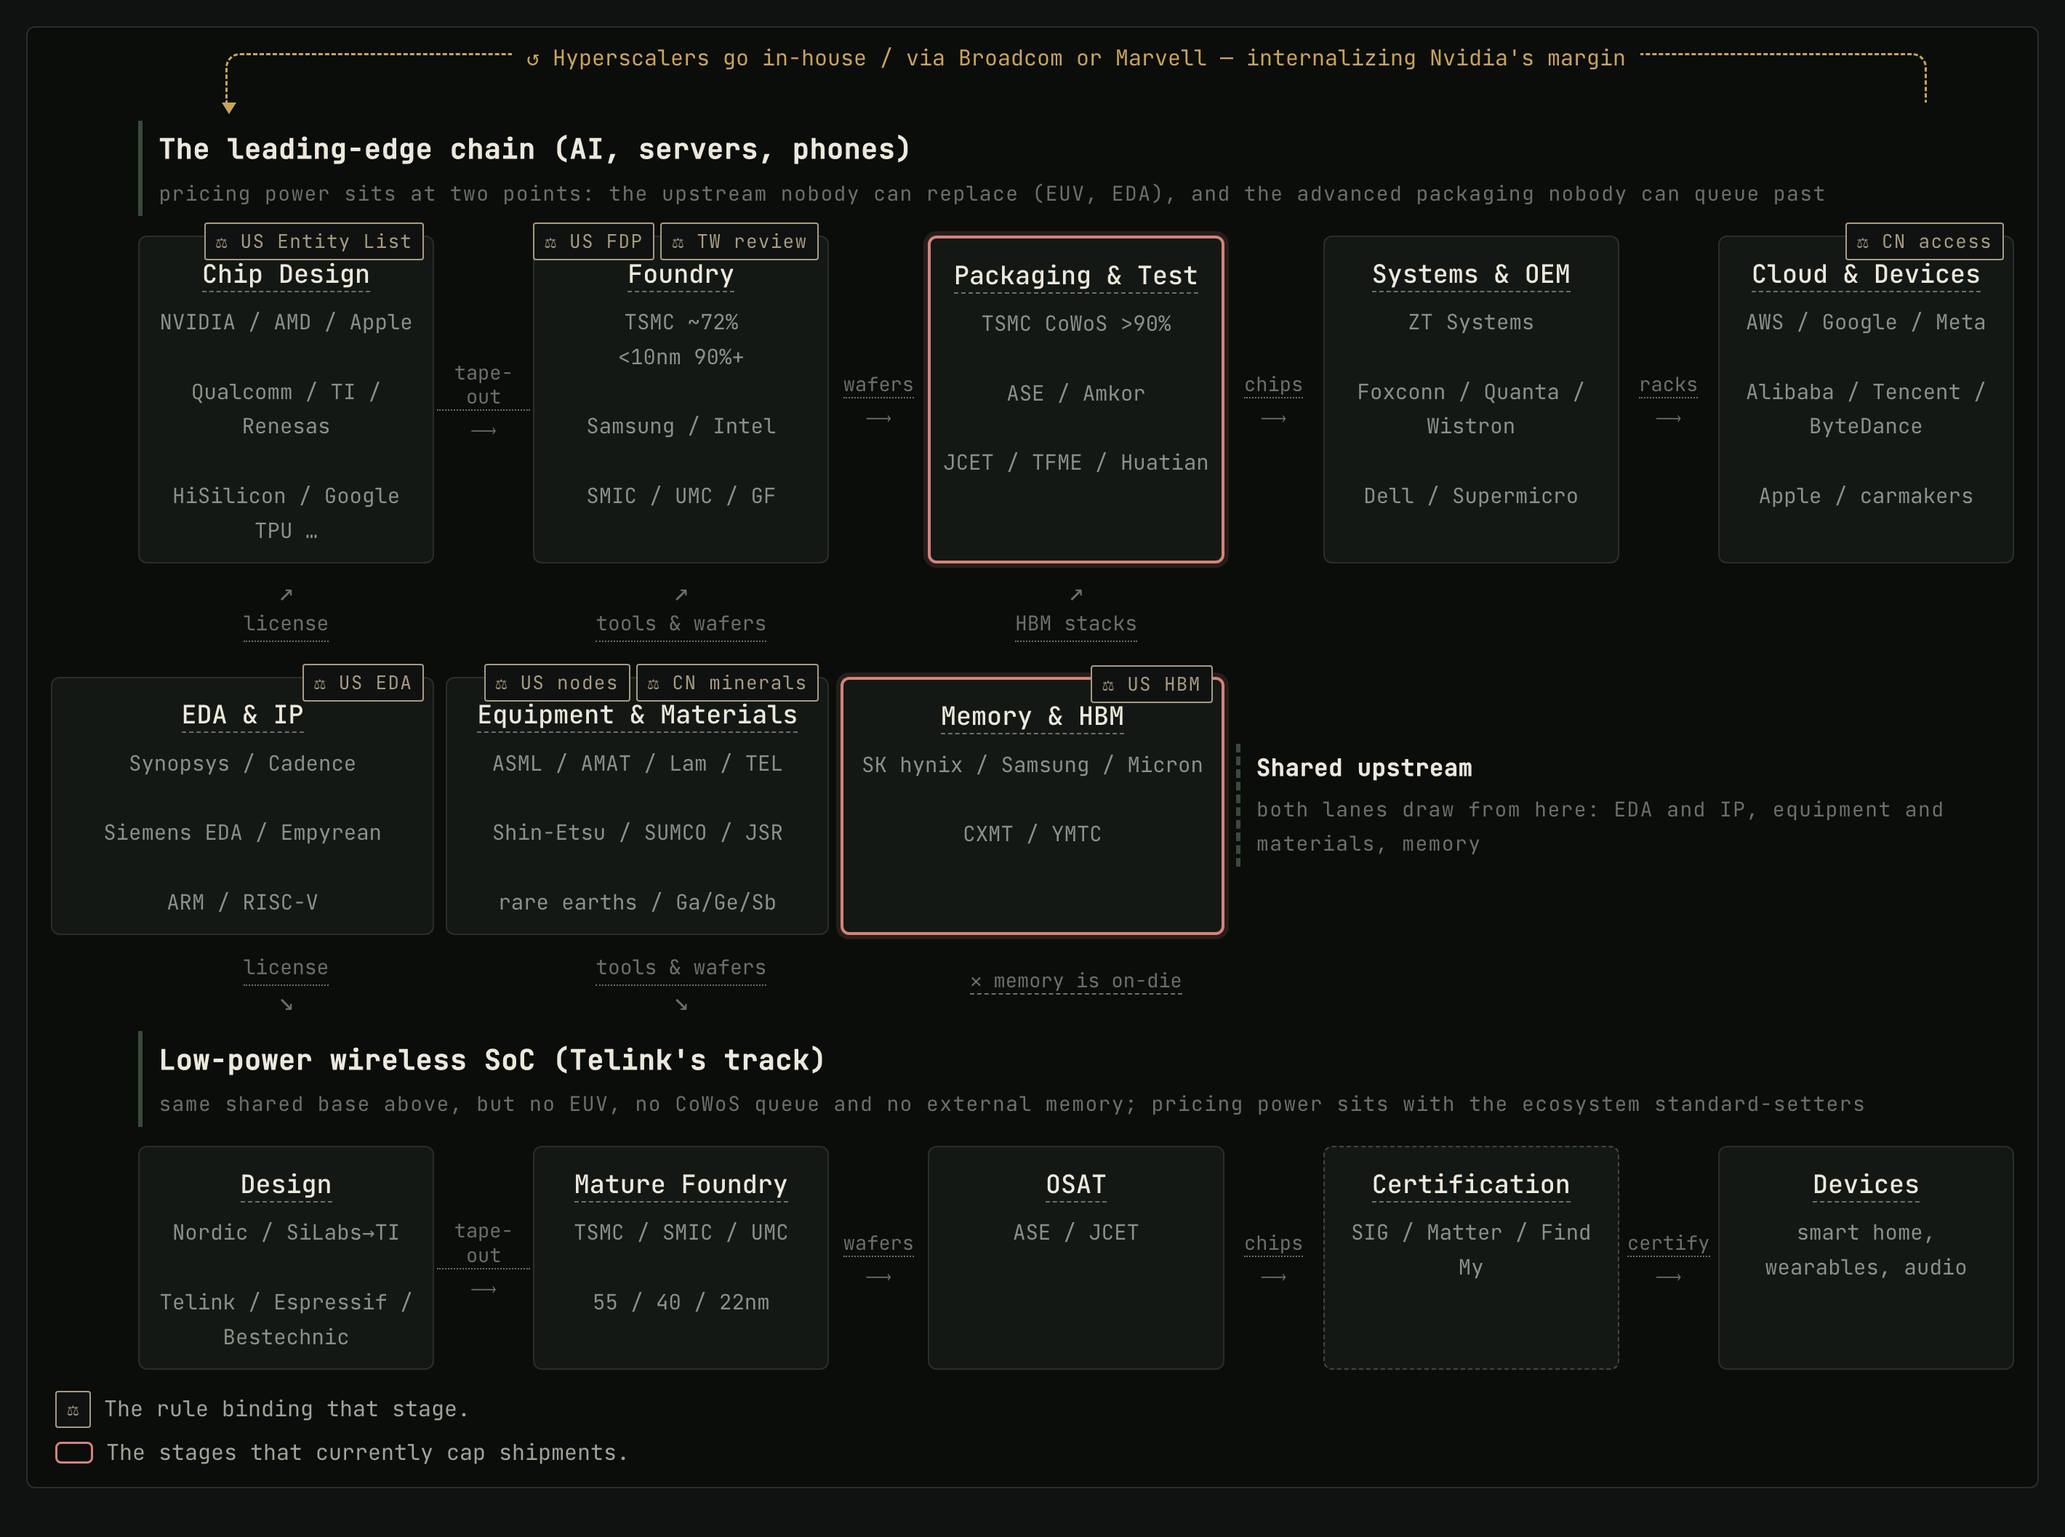
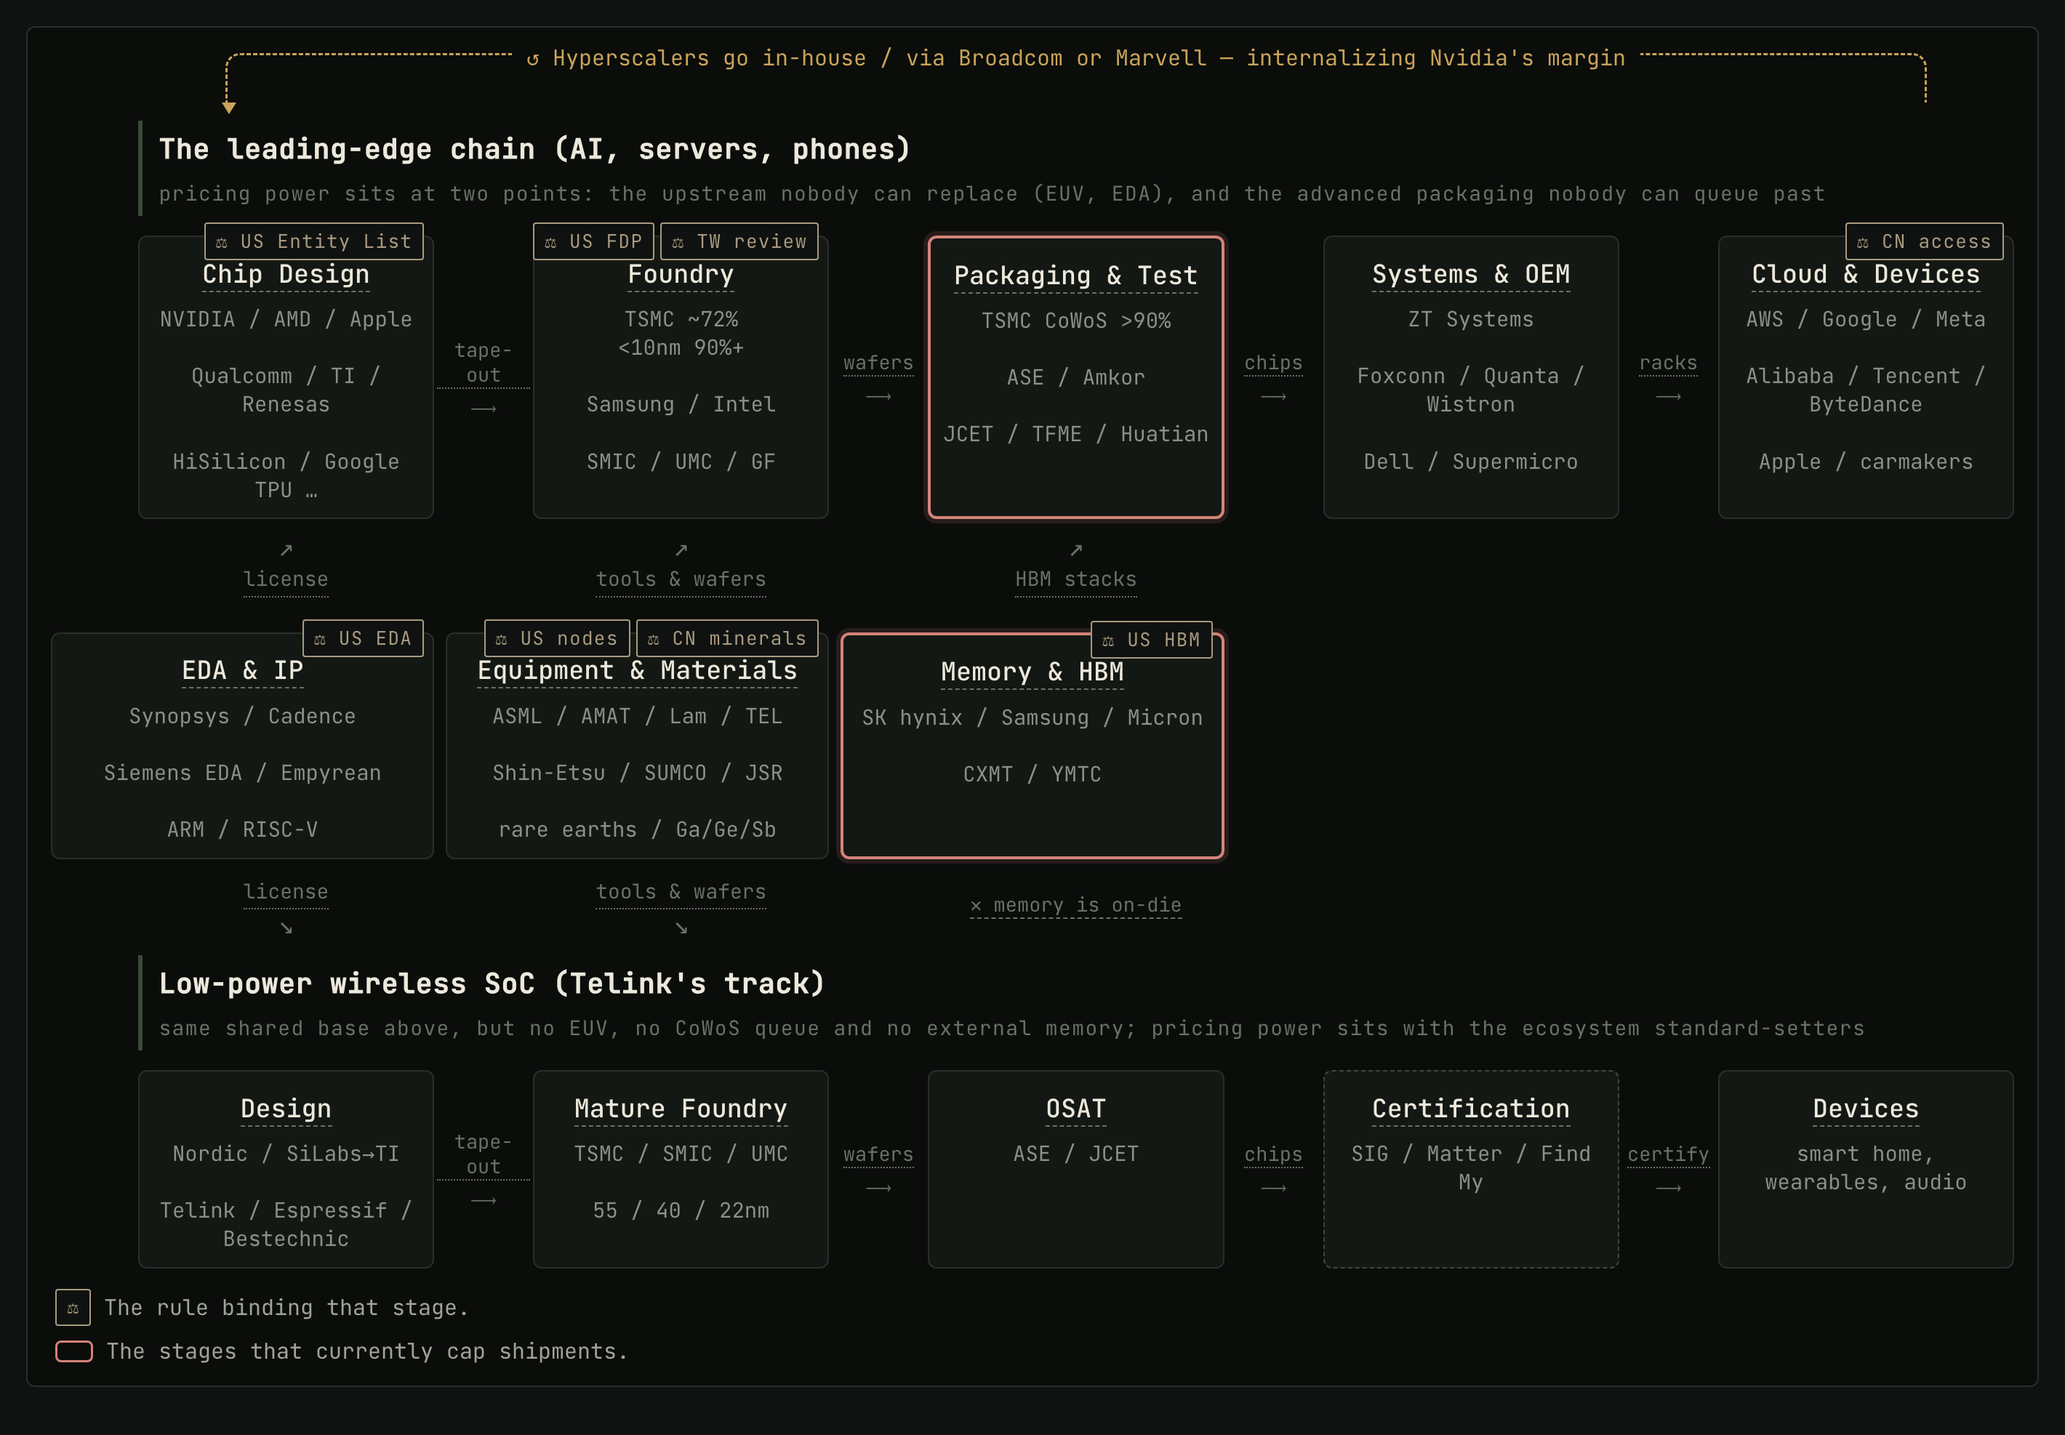
semis: let the drawing carry the shared band, and tighten the lists
The label reading "共用上游 / both lanes draw from here" is gone. Once the
band sits 60px left of the rows it feeds and the connectors on both
sides are diagonal, the picture already says it — the words only read
the picture back.

Line-height inside the tiles drops from 1.65 to 1.35. At 1.65 a list of
three short names took the room of five.

Figure is 987px tall now, down from 1176 before these two.

diff --git a/quartz/static/semis/value-chain-map.html b/quartz/static/semis/value-chain-map.html
@@ -265,7 +265,7 @@ h1.article-title{font-size:30px}
 .fbox .ft{display:block;font-size:17.5px;font-weight:500;color:var(--color-text-bright);
   margin-bottom:.4rem}
 .fbox .ft .tg-tip{border-bottom-style:dashed}
-.fbox .fp{display:block;font-size:14.5px;line-height:1.65;color:var(--color-text-muted)}
+.fbox .fp{display:block;font-size:14.5px;line-height:1.35;color:var(--color-text-muted)}
 .fbox .fsub{display:block;margin:.5rem 0 .12rem;font-size:12px;letter-spacing:.06em;color:var(--color-text-faint);border-bottom:1px dotted var(--color-border)}
 .fbox .fsub:first-child{margin-top:.1rem}
 .fbox .fsp{display:block}
@@ -373,8 +373,6 @@ h1.article-title{font-size:30px}
 /* the shared band is a layer feeding the chain, not a step in it: offset it so
    its cells deliberately fail to line up with the rows above and below */
 .fbox.mid{margin-left:-60px}
-.flane.bandlane{border-left-style:dashed;align-self:center;margin-left:-60px}
-.flane.bandlane .ln{font-size:16px}
 </style></head><body><article>
 <h1 class="article-title">半导体产业链全图 — Semiconductor Value Chain: The Full Map</h1>
 <p class="meta">2026-08-21 / silviazeng.github.io</p>
@@ -399,7 +397,7 @@ h1.article-title{font-size:30px}
 <div class="fvert up midv" style="grid-row:4;grid-column:1"><span class="ar">↗</span><span class="tg-tip " tabindex="0"><span class="tg-lang zh">授权</span><span class="tg-lang en">license</span><span class="tg-tip-box"><span class="tg-lang zh">EDA 工具按席位收费；IP 按「授权费 + 每颗版税」收。ARM 的商业模式就在这一条箭头上。</span><span class="tg-lang en">EDA tools are sold per seat; IP as licence fee plus per-chip royalty. ARM's entire business model lives on this one arrow.</span></span></span></div>
 <div class="fvert up midv" style="grid-row:4;grid-column:3"><span class="ar">↗</span><span class="tg-tip " tabindex="0"><span class="tg-lang zh">设备与硅片</span><span class="tg-lang en">tools & wafers</span><span class="tg-tip-box"><span class="tg-lang zh">光刻机、刻蚀机、硅片、光刻胶从这里进厂。断供这一条竖线，工厂两年后就造不了下一代。</span><span class="tg-lang en">Scanners, etchers, wafers and resists enter the fab here. Cut this vertical and in two years the fab cannot build the next node.</span></span></span></div>
 <div class="fvert up midv" style="grid-row:4;grid-column:5"><span class="ar">↗</span><span class="tg-tip " tabindex="0"><span class="tg-lang zh">HBM 堆栈</span><span class="tg-lang en">HBM stacks</span><span class="tg-tip-box"><span class="tg-lang zh">HBM 是在<b>封装环节</b>才和逻辑裸片合体的——这正是 CoWoS 成为整条链瓶颈的原因。</span><span class="tg-lang en">HBM only meets the logic die <b>at packaging</b> — which is exactly why CoWoS is the chain's bottleneck.</span></span></span></div>
-<div class="flane bandlane" style="grid-row:5;grid-column:7/-1"><span class="tg-lang zh"><span class="ln">共用上游</span>两条线都从这里取：EDA 与 IP、设备与材料、存储</span><span class="tg-lang en"><span class="ln">Shared upstream</span>both lanes draw from here: EDA and IP, equipment and materials, memory</span></div><div class="fbox mid" style="grid-row:5;grid-column:1"><span class="ftag"><span class="fpill tg-tip" tabindex="0">⚖ <span class="tg-lang zh">美国 EDA</span><span class="tg-lang en">US EDA</span><span class="tg-tip-box"><span class="tg-lang zh">同属一套<b>美国出口管制体系（EAR，商务部 BIS 执行）</b>——五件工具各咬一层，这件管的是「软件能不能给你用」。<br><br><b>EAR 对 EDA 工具与 IP 的管制。</b>断供这一层不需要碰任何硬件，因此是 2022 年管制里最先被动用的杠杆。三家 EDA 寡头里两家在美国，第三家（Siemens EDA）技术根也在美国，同样受约束。</span><span class="tg-lang en">One instrument of the <b>same US export-control system (the EAR, run by BIS)</b> — five tools each bite one layer, and this one governs whether you may use the software.<br><br><b>EAR controls on EDA tools and IP.</b> Cutting this layer off touches no hardware, which is why it was the first lever pulled in 2022. Two of the three EDA houses are American; the third (Siemens EDA) has American technology roots and is bound the same way.</span></span></span></span><span class="ft"><span class="tg-tip tipL " tabindex="0"><span class="tg-lang zh">EDA 与 IP</span><span class="tg-lang en">EDA & IP</span><span class="tg-tip-box"><span class="tg-lang zh">整个栈的最底层：三家 EDA 寡头（Synopsys、Cadence、Siemens EDA）+ IP 授权（ARM 只授权不卖芯片）。断供这一层不需要碰任何硬件——2022 年管制里最先被用到的杠杆。</span><span class="tg-lang en">The base of the stack: three EDA oligopolists plus IP licensing (ARM sells no chips). Cutting this layer off touches no hardware — the first lever pulled in the 2022 controls.</span></span></span></span><span class="fp"><span class="fpl"><span class="sr sr-us">Synopsys</span> / <span class="sr sr-us">Cadence</span></span><br><span class="fpl"><span class="sr sr-eu">Siemens EDA</span> / <span class="sr sr-cn"><span class="tg-lang zh">华大九天</span><span class="tg-lang en">Empyrean</span></span></span><br><span class="fpl"><span class="sr sr-eu">ARM</span> / <span class="sr sr-eu">RISC-V</span></span></span></div>
+<div class="fbox mid" style="grid-row:5;grid-column:1"><span class="ftag"><span class="fpill tg-tip" tabindex="0">⚖ <span class="tg-lang zh">美国 EDA</span><span class="tg-lang en">US EDA</span><span class="tg-tip-box"><span class="tg-lang zh">同属一套<b>美国出口管制体系（EAR，商务部 BIS 执行）</b>——五件工具各咬一层，这件管的是「软件能不能给你用」。<br><br><b>EAR 对 EDA 工具与 IP 的管制。</b>断供这一层不需要碰任何硬件，因此是 2022 年管制里最先被动用的杠杆。三家 EDA 寡头里两家在美国，第三家（Siemens EDA）技术根也在美国，同样受约束。</span><span class="tg-lang en">One instrument of the <b>same US export-control system (the EAR, run by BIS)</b> — five tools each bite one layer, and this one governs whether you may use the software.<br><br><b>EAR controls on EDA tools and IP.</b> Cutting this layer off touches no hardware, which is why it was the first lever pulled in 2022. Two of the three EDA houses are American; the third (Siemens EDA) has American technology roots and is bound the same way.</span></span></span></span><span class="ft"><span class="tg-tip tipL " tabindex="0"><span class="tg-lang zh">EDA 与 IP</span><span class="tg-lang en">EDA & IP</span><span class="tg-tip-box"><span class="tg-lang zh">整个栈的最底层：三家 EDA 寡头（Synopsys、Cadence、Siemens EDA）+ IP 授权（ARM 只授权不卖芯片）。断供这一层不需要碰任何硬件——2022 年管制里最先被用到的杠杆。</span><span class="tg-lang en">The base of the stack: three EDA oligopolists plus IP licensing (ARM sells no chips). Cutting this layer off touches no hardware — the first lever pulled in the 2022 controls.</span></span></span></span><span class="fp"><span class="fpl"><span class="sr sr-us">Synopsys</span> / <span class="sr sr-us">Cadence</span></span><br><span class="fpl"><span class="sr sr-eu">Siemens EDA</span> / <span class="sr sr-cn"><span class="tg-lang zh">华大九天</span><span class="tg-lang en">Empyrean</span></span></span><br><span class="fpl"><span class="sr sr-eu">ARM</span> / <span class="sr sr-eu">RISC-V</span></span></span></div>
 <div class="fbox mid" style="grid-row:5;grid-column:3"><span class="ftag"><span class="fpill tg-tip" tabindex="0">⚖ <span class="tg-lang zh">美国门槛</span><span class="tg-lang en">US nodes</span><span class="tg-tip-box"><span class="tg-lang zh">同属一套<b>美国出口管制体系（EAR，商务部 BIS 执行）</b>——五件工具各咬一层，这件管的是「设备能不能进厂」。<br><br><b>2022 年 10 月 7 日的制程门槛 + 2024 年 12 月的设备 FDP 规则。</b>向中国境内工厂出口设备，只要该厂生产 16/14nm 以下逻辑、18nm 半节距以下 DRAM 或 128 层以上 NAND，就需要许可证——<b>不看所有权</b>。2024 年 12 月起，连非美国造的设备只要用了美国技术也一并覆盖。</span><span class="tg-lang en">One instrument of the <b>same US export-control system (the EAR, run by BIS)</b> — five tools each bite one layer, and this one governs whether tools may enter the fab.<br><br><b>The node thresholds of 7 October 2022, plus the equipment FDP rule of December 2024.</b> Shipping tools to any China-located fab producing logic below 16/14nm, DRAM below 18nm half-pitch or NAND at 128+ layers requires a licence — <b>regardless of who owns the fab</b>. Since December 2024 even non-US tools built with US technology are covered.</span></span></span><span class="fpill tg-tip" tabindex="0">⚖ <span class="tg-lang zh">中国原料</span><span class="tg-lang en">CN minerals</span><span class="tg-tip-box"><span class="tg-lang zh"><b>商务部 2025 年 10 月 9 日第 61/62 号公告。</b>只要一件外国制造的产品里含有价值占比 0.1% 以上的中国原产稀土，出口就需要中国的许可证——<b>这是中国版的 FDP 规则</b>，同样的域外管辖逻辑，方向相反。另有镓、锗、锑：2024 年 12 月 3 日曾宣布对美「原则上不予许可」，2025 年 11 月改回许可制。釜山会晤后，域外条款暂停至 2026 年 11 月 10 日，镓锗锑暂停至 11 月 27 日。</span><span class="tg-lang en"><b>MOFCOM Notices 61/62 of 9 October 2025.</b> Any foreign-made good containing 0.1% or more Chinese-origin rare earths needs a Chinese export licence — structurally the mirror of the US FDP rule. Suspended after Busan until 10 November 2026; the gallium/germanium/antimony suspension runs to 27 November.</span></span></span></span><span class="ft"><span class="tg-tip " tabindex="0"><span class="tg-lang zh">设备与材料</span><span class="tg-lang en">Equipment & Materials</span><span class="tg-tip-box"><span class="tg-lang zh"><b>设备与材料</b>。造芯片用的机器和原料，集中度比下游任何一层都高：EUV 只有 ASML 一家，其光源来自美国 Cymer、镜头来自德国蔡司。稀土和镓锗锑的精炼环节 80% 以上在中国。</span><span class="tg-lang en"><b>Equipment & materials</b> — more concentrated than anything downstream: one EUV maker (ASML), whose source is American (Cymer) and optics German (Zeiss). China refines 80%+ of rare earths and Ga/Ge/Sb.</span></span></span></span><span class="fp"><span class="fpl"><span class="sr sr-eu">ASML</span> / <span class="sr sr-us">AMAT</span> / <span class="sr sr-us">Lam</span> / <span class="sr sr-jp">TEL</span></span><br><span class="fpl"><span class="sr sr-jp"><span class="tg-lang zh">信越</span><span class="tg-lang en">Shin-Etsu</span></span> / <span class="sr sr-jp">SUMCO</span> / <span class="sr sr-jp">JSR</span></span><br><span class="fpl"><span class="sr sr-cn"><span class="tg-lang zh">稀土及镓锗锑</span><span class="tg-lang en">rare earths / Ga/Ge/Sb</span></span></span></span></div>
 <div class="fbox hot mid" style="grid-row:5;grid-column:5"><span class="ftag"><span class="fpill tg-tip" tabindex="0">⚖ <span class="tg-lang zh">美国 HBM</span><span class="tg-lang en">US HBM</span><span class="tg-tip-box"><span class="tg-lang zh">同属一套<b>美国出口管制体系（EAR，商务部 BIS 执行）</b>——五件工具各咬一层，这件管的是「这类物项本身」。<br><br><b>2024 年 12 月起 HBM 被纳入管制（ECCN 3A090.c）。</b>这是目前限制华为昇腾出货量的真正瓶颈——约束在 HBM，不在逻辑晶圆。注意这一格里三家的机制各不相同：美光本身是美国公司；长江存储 2022 年 12 月被列入实体清单；<b>长鑫至今未被列名，它受约束靠的是上面那条不看所有权的制程门槛</b>。</span><span class="tg-lang en">One instrument of the <b>same US export-control system (the EAR, run by BIS)</b> — five tools each bite one layer, and this one governs the item class itself.<br><br><b>HBM came under control in December 2024 (ECCN 3A090.c).</b> This, not logic wafers, is the binding constraint on Huawei's Ascend shipments. Note the three makers here are caught by different mechanisms: Micron is simply American; YMTC was Entity-Listed in December 2022; <b>CXMT has never been named — it is bound by the ownership-blind node thresholds above</b>.</span></span></span></span><span class="ft"><span class="tg-tip " tabindex="0"><span class="tg-lang zh">存储与 HBM</span><span class="tg-lang en">Memory & HBM</span><span class="tg-tip-box"><span class="tg-lang zh"><b>HBM（High Bandwidth Memory，高带宽内存）</b>。垂直堆叠的 DRAM，紧贴处理器裸片放置。AI 加速器的主要规格竞赛点，全球只有 SK 海力士、三星、美光三家能量产。2024 年 12 月起被列入美国出口管制，<b>这是目前限制华为昇腾出货量的真正瓶颈——不是逻辑晶圆</b>。</span><span class="tg-lang en"><b>HBM (High Bandwidth Memory)</b> — vertically stacked DRAM placed against the processor die. Only SK hynix, Samsung and Micron produce it at volume. Export-controlled by the US since December 2024, and <b>the actual binding constraint on Huawei's Ascend shipments — not logic wafers</b>.</span></span></span></span><span class="fp"><span class="fpl"><span class="sr sr-kr"><span class="tg-lang zh">SK 海力士</span><span class="tg-lang en">SK hynix</span></span> / <span class="sr sr-kr"><span class="tg-lang zh">三星</span><span class="tg-lang en">Samsung</span></span> / <span class="sr sr-us"><span class="tg-lang zh">美光</span><span class="tg-lang en">Micron</span></span></span><br><span class="fpl"><span class="sr sr-cn"><span class="tg-lang zh">长鑫</span><span class="tg-lang en">CXMT</span></span> / <span class="sr sr-cn"><span class="tg-lang zh">长江存储</span><span class="tg-lang en">YMTC</span></span></span></span></div>
 <div class="fvert midv" style="grid-row:6;grid-column:1"><span class="tg-tip " tabindex="0"><span class="tg-lang zh">授权</span><span class="tg-lang en">license</span><span class="tg-tip-box"><span class="tg-lang zh">低功耗 SoC 一样要买 EDA 和 CPU 内核 IP——泰凌微用 RISC-V，Nordic 用 ARM Cortex-M。<b>成熟节点的设计工具照常能买，但一旦被列入实体清单，EDA 是整层切断的。</b>这是这条线上最真实的一处管制暴露。</span><span class="tg-lang en">Low-power SoCs buy EDA and CPU IP just the same — Telink on RISC-V, Nordic on ARM Cortex-M. <b>Mature-node tools remain purchasable, but an Entity List designation cuts the whole layer at once.</b> This is the one real control exposure on this track.</span></span></span><span class="ar">↘</span></div>
